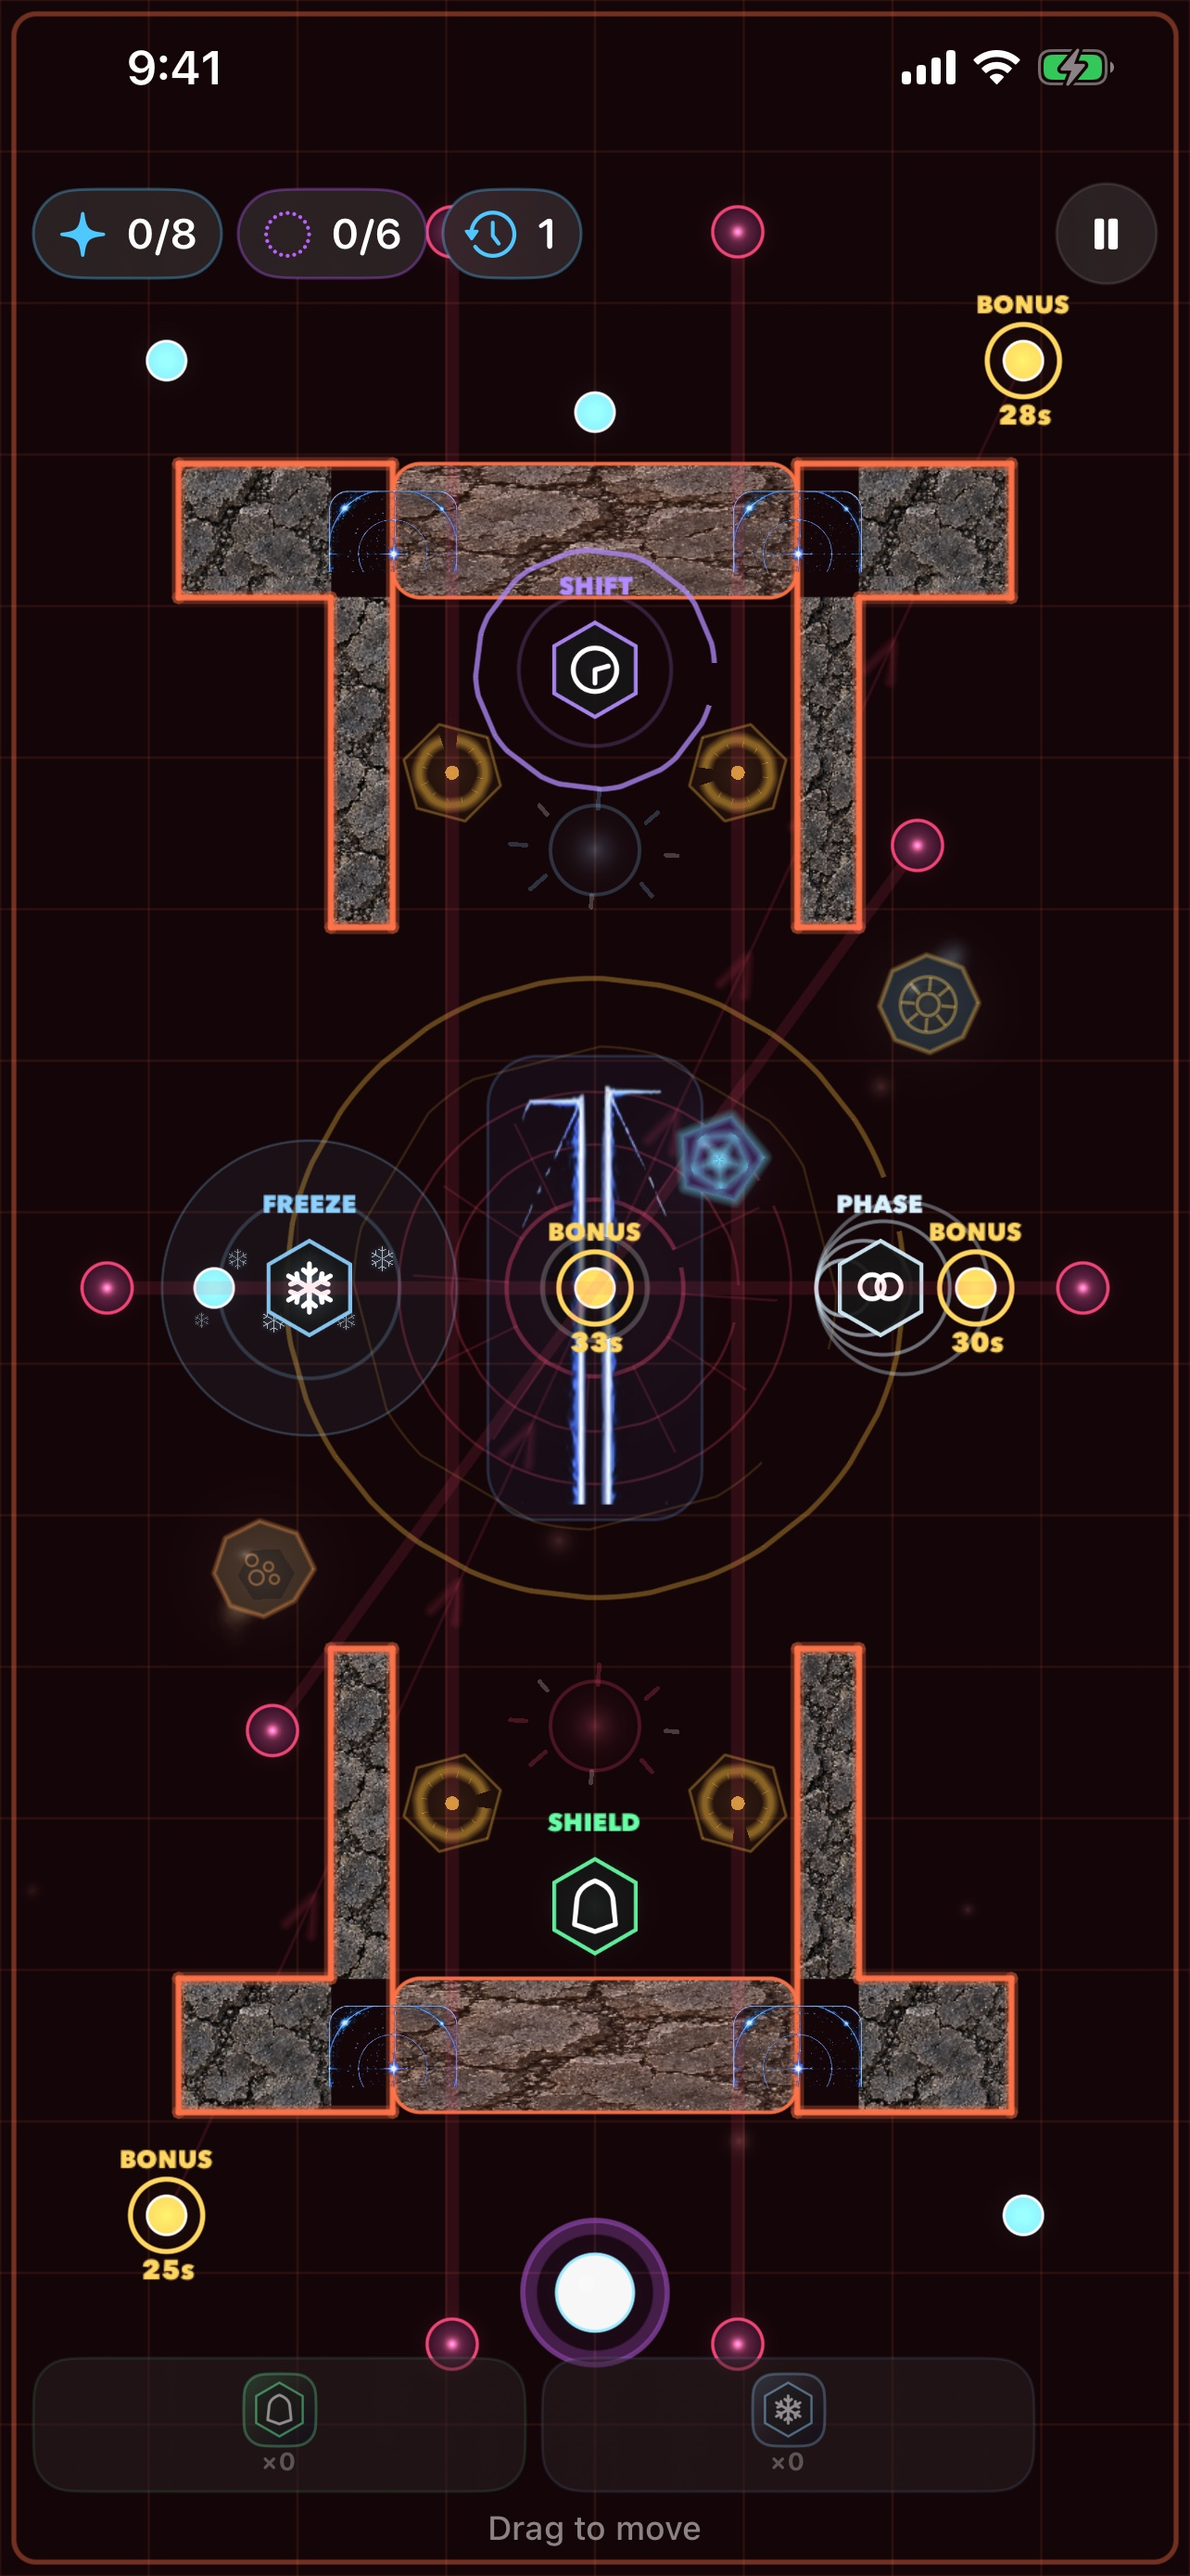
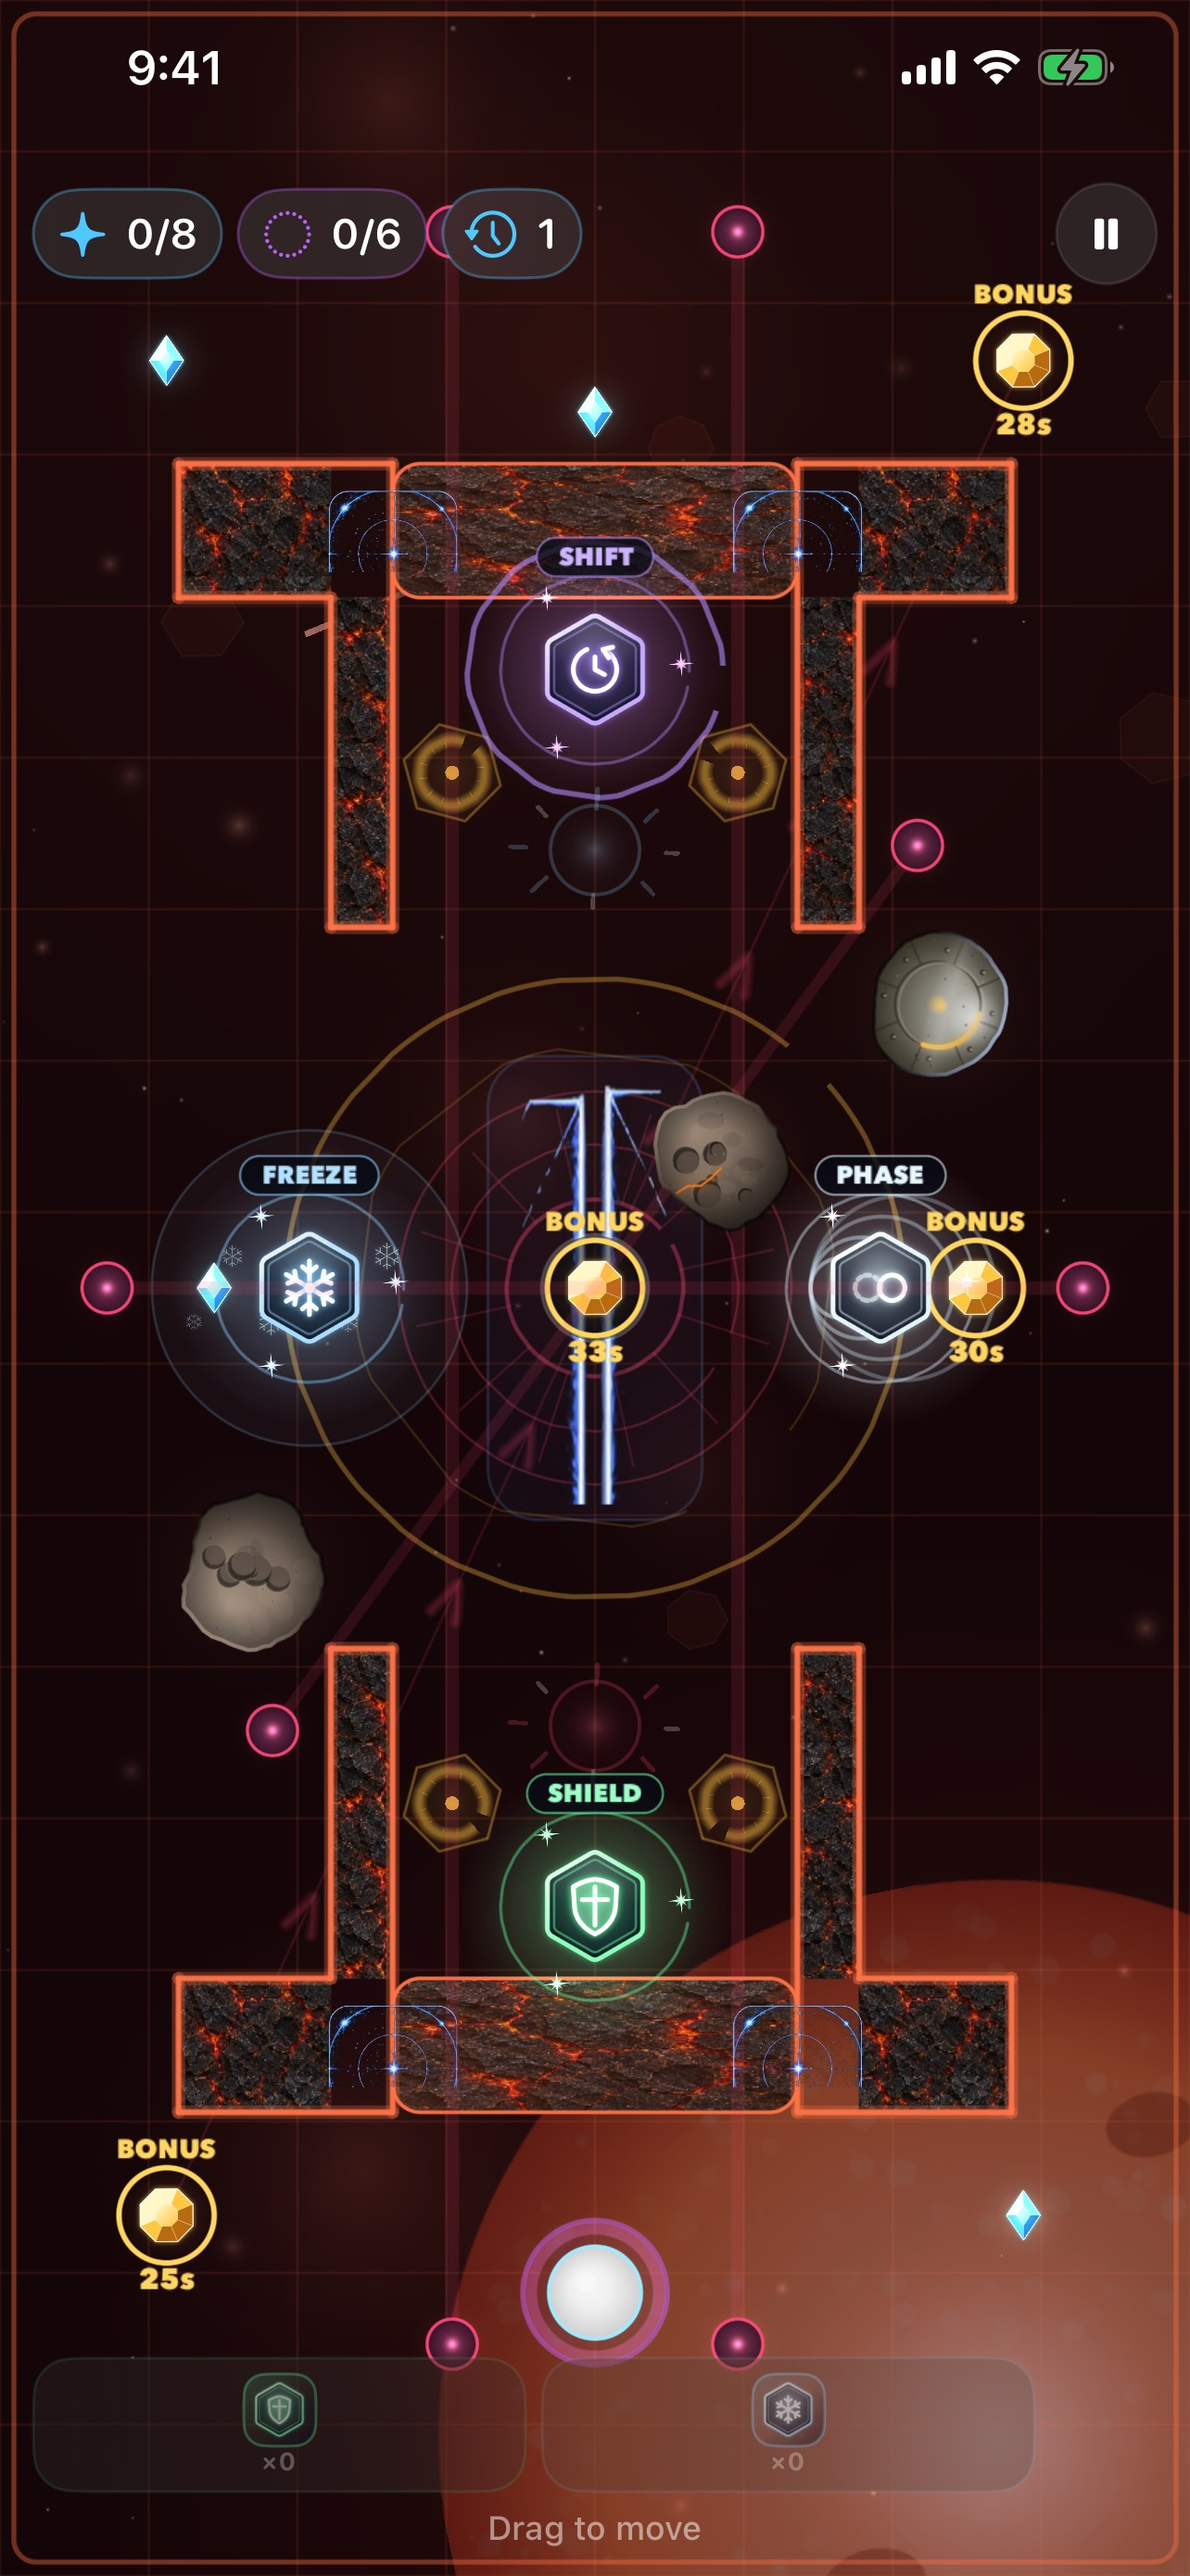
Refresh the store and README screenshots and the release guide for build 18.
New iPhone 6.9-inch and 6.5-inch sets show a run under the Undertow's black hole, a laser arena under Ashcrown, the Atlas route with the Signal's loop, Deep Time, the Riftlands arrival card, research, the loadout, the Archive's story and Home; the iPad set follows, and an Apple Watch set shows a wrist run, the maps, relics and skills. The README gallery uses them, and the release guide lists the new listing copy, keywords, review notes and screenshot groups. The -shot-arrival argument now clears the seen regions so the arrival card can be captured again.

diff --git a/Echo/App/AppModel.swift b/Echo/App/AppModel.swift
@@ -43,6 +43,13 @@ final class AppModel {
     }
 
     func applyLaunchArgs(_ args: [String]) {
+        // Screenshot runs skip the region arrival cards unless asked for one.
+        if args.contains("-shot-arrival") {
+            progress.seenHints.subtract(ArrivalCard.Arrival.allKeys)
+            progress.persist()
+        } else if args.contains(where: { $0.hasPrefix("-shot-") }) {
+            for key in ArrivalCard.Arrival.allKeys { _ = progress.markHint(key) }
+        }
 #if DEBUG
         if let flag = args.firstIndex(of: "-shot-progress"), flag + 1 < args.count, let count = Int(args[flag + 1]) {
             progress.debugShowcase(cleared: count)
@@ -57,9 +64,6 @@ final class AppModel {
                 .pulse, .magnet, .chrono, .anchor, .repulse, .prism, .blink,
             ] {
                 _ = progress.markHint(hint.rawValue)
-            }
-            if !args.contains("-shot-arrival") {
-                for key in ArrivalCard.Arrival.allKeys { _ = progress.markHint(key) }
             }
             screen = .playing(PlayRequest(levelID: level.id, daily: false))
             return

diff --git a/docs/APP_STORE_RELEASE.md b/docs/APP_STORE_RELEASE.md
@@ -1,6 +1,6 @@
 # ECHO App Store release guide
 
-App Store Connect record: [ECHO: Survive Your Past](https://appstoreconnect.apple.com/apps/6811673094/distribution/ios/version/inflight). App ID `com.sergiiziborov.Echo`. Version **1.0.0**, current build **17**. The listing is not public yet.
+App Store Connect record: [ECHO: Survive Your Past](https://appstoreconnect.apple.com/apps/6811673094/distribution/ios/version/inflight). App ID `com.sergiiziborov.Echo`. Version **1.0.0**, current build **18**. The listing is not public yet.
 
 ## Price and product type
 
@@ -8,15 +8,15 @@ Intended sale: **$1.99 USD one-time iOS app**. No ads, no in-app purchases, no s
 
 ## TestFlight / Xcode Cloud
 
-`project.yml` and the generated Xcode project use marketing version **1.0.0** and build **17**. `ci_scripts/ci_post_clone.sh` installs XcodeGen if needed and regenerates the project.
+`project.yml` and the generated Xcode project use marketing version **1.0.0** and build **18**. Xcode Cloud numbers its own builds, so set its next build number above the last uploaded build. `ci_scripts/ci_post_clone.sh` installs XcodeGen if needed and regenerates the project.
 
 After signing in to App Store Connect:
 
 1. Connect an Xcode Cloud workflow to `sergii-ziborov/Echo` on `main`.
 2. Use **Archive - iOS**, **App Store Connect** distribution, and **TestFlight Internal Testing**.
-3. Confirm the processed build is 1.0.0 (17) before assigning testers.
+3. Confirm the processed build is 1.0.0 (18) or later before assigning testers.
 
-Suggested **What to Test**: player orb size and idle pulse; trail thickness near the head; asteroid fracture without a countdown overlay; wall seams; laser telegraph; Atlas, Lab, Wiki, and Settings → About / Terms / Privacy.
+Suggested **What to Test**: region arrival cards and the Atlas route (Möbius loop, region skies); Deep Time; the Apple Watch app on its own and as a remote for a phone run; Settings → About / Terms / Privacy / Report a bug.
 
 ## Prepared assets
 
@@ -27,25 +27,30 @@ Screenshots are opaque JPEGs captured from the running app:
 | iPhone 6.9-inch | 1320 × 2868 | `docs/app-store/iphone/` |
 | iPhone 6.5-inch | 1284 × 2778 | `docs/app-store/iphone65/` |
 | iPad 13-inch | 2064 × 2752 | `docs/app-store/ipad/` |
+| Apple Watch 46 mm | 416 × 496 | `docs/app-store/watch/` |
 
 Keep the two iPhone groups separate in App Store Connect. The first image in each group is gameplay, not a splash screen.
 
-| iPhone 6.5-inch | iPhone 6.9-inch | iPad | Feature |
-| --- | --- | --- | --- |
-| `iphone65/play/01-gameplay.jpg` | `iphone/play/01-gameplay.jpg` | `ipad/01-gameplay.jpg` | Orb, asteroids, clocks |
-| `iphone65/play/02-lasers.jpg` | `iphone/play/02-lasers.jpg` | — | Laser arena |
-| `iphone65/menu/03-atlas.jpg` | `iphone/menu/03-atlas.jpg` | `ipad/02-atlas.jpg` | Timeline Atlas |
-| `iphone65/menu/04-research.jpg` | `iphone/menu/04-research.jpg` | `ipad/03-research.jpg` | Research tree |
-| `iphone65/menu/05-lab.jpg` | `iphone/menu/05-lab.jpg` | `ipad/04-lab.jpg` | Ability loadout |
-| `iphone65/menu/06-wiki.jpg` | `iphone/menu/06-wiki.jpg` | — | In-game guide |
-| `iphone65/menu/07-home.jpg` | `iphone/menu/07-home.jpg` | `ipad/05-home.jpg` | Home screen |
+| iPhone (both sizes) | iPad | Feature |
+| --- | --- | --- |
+| `play/01-gameplay.jpg` | `01-gameplay.jpg` | Orb, rocks and the Hollow Belt sky |
+| `play/02-lasers.jpg` | — | Laser arena under Ashcrown |
+| `menu/03-atlas.jpg` | `02-atlas.jpg` | Atlas route with the Signal's loop |
+| `play/04-deep-time.jpg` | `03-deep-time.jpg` | Endless Deep Time |
+| `play/05-arrival.jpg` | — | Region arrival card (story) |
+| `menu/06-research.jpg` | `04-research.jpg` | Research tree |
+| `menu/07-lab.jpg` | `05-lab.jpg` | Ability loadout |
+| `menu/08-wiki.jpg` | — | Archive: Story |
+| `menu/09-home.jpg` | `06-home.jpg` | Home screen |
+
+Apple Watch (`watch/`): `01-wrist-run.jpg`, `02-wrist-maps.jpg`, `03-relics.jpg`, `04-skills.jpg`.
 
 ## English (U.S.) listing
 
 - Name: **ECHO: Survive Your Past**
 - Subtitle: **Every route becomes a rival**
-- Promotional text: **Draw a path, outlive its replay, and master 77 shifting maps.**
-- Keywords: `time,puzzle,arcade,survival,echo,maze,skill,laser,space,offline`
+- Promotional text: **Carry the last light of the Lighthouse through 11 regions of space, outlive your own echoes, and dive into endless Deep Time — on iPhone, iPad and Apple Watch.**
+- Keywords: `time,puzzle,arcade,survival,echo,maze,skill,laser,space,offline,watch,endless`
 - Category: Games / Puzzle (secondary: Action)
 - Age rating: complete against the shipped binary; the game has cartoon violence against abstract orbs, no accounts, and no user-generated content
 - Support URL: `https://github.com/sergii-ziborov/Echo#support`
@@ -56,20 +61,26 @@ Keep the two iPhone groups separate in App Store Connect. The first image in eac
 
 Suggested description:
 
-> Your path comes back to hunt you. Steer the bright orb, collect sparks, and reach the exit before your recorded route turns into a dangerous Echo.
+> Your path comes back to hunt you. You are the Signal, the last light of the Lighthouse, sent down the Fold Road after time broke. Steer the bright orb, collect sparks, and reach the fold before your recorded route returns as a dangerous Echo.
 >
-> Explore 77 maps across 11 visual epochs. Dodge shattering asteroids, pulsing lasers, gravity wells and reality rifts. Build a loadout of timed abilities, then grow a 24-node research tree to shape your speed, slots, shields and cooldowns.
+> • 77 handcrafted maps across 11 regions of space, each with its own sky, walls, hazards and story
+> • Shattering asteroids of eight materials, pulsing lasers, black holes, time gates and reality rifts
+> • Deep Time: an endless mode of random arenas, each checked to be solvable
+> • A Daily Rift that reopens one stop of the Road every day
+> • A loadout of timed abilities and a 24-node research tree
+> • Apple Watch: twelve clockwork rooms on your wrist, relics for the phone game, and a remote that steers your iPhone run
+> • An in-game archive that explains every rule and the whole story
 >
-> Clear optional seals, master each difficulty cycle, and use the in-game Wiki to learn every clock and hazard. Progress stays on your device. No account, ads or network connection are required to play.
+> Progress stays on your device. No account, ads, in-app purchases or network connection needed.
 
 App Privacy answers: **no data collected**. Confirm against `PRIVACY.md` and the shipped binary before publishing.
 
-App Review notes: no sign-in. Settings contains About, Terms, Privacy, and a confirmed progress reset. Contact email `sergii.ziborov@gmail.com`. Add a reachable phone number in App Store Connect.
+App Review notes: no sign-in. Settings contains About, Terms, Privacy, Report a bug (a prefilled email), and a confirmed progress reset. The Apple Watch app is embedded: wrist maps play on their own, and Remote steers a map that is running on the paired iPhone. Contact email `sergii.ziborov@gmail.com`. Add a reachable phone number in App Store Connect.
 
 ## Submission sequence
 
 1. Confirm the explicit App ID and the iOS app record. English (U.S.) primary language.
-2. Archive 1.0.0 (17), validate, and upload. Wait for processing.
+2. Archive 1.0.0 (18) with a release Xcode (or let Xcode Cloud archive it), validate, and upload. Wait for processing.
 3. Attach screenshots, listing copy, support and privacy URLs, age rating, and content rights. Export compliance: the app uses only exempt encryption (`ITSAppUsesNonExemptEncryption` is false).
 4. Choose **Paid** only after the Paid Apps Agreement is accepted. Set $1.99 and the intended countries.
 5. Review the product page and submit. “Prepare for Submission” is not a public release.

diff --git a/README.md b/README.md
@@ -9,15 +9,22 @@ Seventy-seven maps sit in eleven seven-map regions of space, strung along one ro
 The App Store build is a **$1.99 one-time download**. No ads, accounts, or in-app purchases. Progress stays on the device.
 
 <p align="center">
-  <img src="docs/app-store/iphone/play/01-gameplay.jpg" width="220" alt="Gameplay with a highlighted player orb, asteroids and timed crystals">
-  <img src="docs/app-store/iphone/play/02-lasers.jpg" width="220" alt="Laser arena">
-  <img src="docs/app-store/iphone/menu/03-atlas.jpg" width="220" alt="Timeline Atlas">
+  <img src="docs/app-store/iphone/play/01-gameplay.jpg" width="220" alt="A run in the Undertow under a black hole, with rocks, beams and sparks">
+  <img src="docs/app-store/iphone/menu/03-atlas.jpg" width="220" alt="Atlas: the Hollow Belt route under its broken world, the Signal looping round the selected stop">
+  <img src="docs/app-store/iphone/play/05-arrival.jpg" width="220" alt="Arrival card for the Riftlands">
   <br>
-  <img src="docs/app-store/iphone/menu/04-research.jpg" width="220" alt="Timeline Matrix research tree">
-  <img src="docs/app-store/iphone/menu/05-lab.jpg" width="220" alt="Temporal Lab">
-  <img src="docs/app-store/iphone/menu/06-wiki.jpg" width="220" alt="Timeline Archive wiki">
+  <img src="docs/app-store/iphone/play/02-lasers.jpg" width="220" alt="Laser arena under Ashcrown">
+  <img src="docs/app-store/iphone/play/04-deep-time.jpg" width="220" alt="Deep Time, the endless mode">
+  <img src="docs/app-store/iphone/menu/08-wiki.jpg" width="220" alt="Timeline Archive: the story">
   <br>
-  <img src="docs/app-store/iphone/menu/07-home.jpg" width="220" alt="Home screen">
+  <img src="docs/app-store/iphone/menu/06-research.jpg" width="220" alt="Timeline Matrix research tree">
+  <img src="docs/app-store/iphone/menu/07-lab.jpg" width="220" alt="Temporal Lab loadout">
+  <img src="docs/app-store/iphone/menu/09-home.jpg" width="220" alt="Home screen with Deep Time">
+  <br>
+  <img src="docs/app-store/watch/01-wrist-run.jpg" width="150" alt="A wrist map on Apple Watch">
+  <img src="docs/app-store/watch/02-wrist-maps.jpg" width="150" alt="Wrist Timeline maps">
+  <img src="docs/app-store/watch/03-relics.jpg" width="150" alt="Relics that carry over to iPhone">
+  <img src="docs/app-store/watch/04-skills.jpg" width="150" alt="Watch skills">
 </p>
 
 See the [player guide](docs/GUIDE.md), [environment asset map](docs/ASSET_INTEGRATION.md), [App Store release guide](docs/APP_STORE_RELEASE.md), [About](ABOUT.md), [Terms of Use](TERMS.md), and [Privacy Policy](PRIVACY.md).
